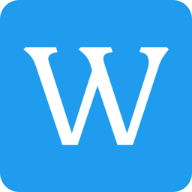
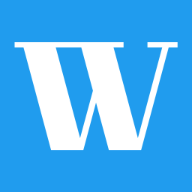
change cover image

diff --git a/posts/about_openwrt/index.html b/posts/about_openwrt/index.html
@@ -58,9 +58,9 @@ Aplayer in iPad
 <link rel="canonical" href="https://wushuo.me/posts/about_openwrt/">
 <link crossorigin="anonymous" href="/assets/css/stylesheet.fc220c15db4aef0318bbf30adc45d33d4d7c88deff3238b23eb255afdc472ca6.css" integrity="sha256-/CIMFdtK7wMYu/MK3EXTPU18iN7/MjiyPrJVr9xHLKY=" rel="preload stylesheet" as="style">
 <link rel="icon" href="https://wushuo.me/assets/favicon.ico">
-<link rel="icon" type="image/png" sizes="16x16" href="https://wushuo.me/favicon-16x16.png">
-<link rel="icon" type="image/png" sizes="32x32" href="https://wushuo.me/favicon-32x32.png">
-<link rel="apple-touch-icon" href="https://wushuo.me/apple-touch-icon.png">
+<link rel="icon" type="image/png" sizes="16x16" href="https://wushuo.me/assets/favicon-16x16.png">
+<link rel="icon" type="image/png" sizes="32x32" href="https://wushuo.me/assets/favicon-32x32.png">
+<link rel="apple-touch-icon" href="https://wushuo.me/assets/apple-touch-icon.png">
 <link rel="mask-icon" href="https://wushuo.me/safari-pinned-tab.svg">
 <meta name="theme-color" content="#2e2e33">
 <meta name="msapplication-TileColor" content="#2e2e33">
@@ -150,11 +150,11 @@ Aplayer in iPad
 
 " />
 <meta property="og:type" content="article" />
-<meta property="og:url" content="https://wushuo.me/posts/about_openwrt/" /><meta property="og:image" content="https://wushuo.me/img/cover-image-0.jpg"/><meta property="article:section" content="posts" />
+<meta property="og:url" content="https://wushuo.me/posts/about_openwrt/" /><meta property="og:image" content="https://wushuo.me/img/profile-image.jpg"/><meta property="article:section" content="posts" />
 <meta property="article:published_time" content="2021-01-11T19:44:48+08:00" />
 <meta property="article:modified_time" content="2021-01-11T19:44:48+08:00" />
 <meta name="twitter:card" content="summary_large_image"/>
-<meta name="twitter:image" content="https://wushuo.me/img/cover-image-0.jpg"/>
+<meta name="twitter:image" content="https://wushuo.me/img/profile-image.jpg"/>
 
 <meta name="twitter:title" content="我的家庭组网：软路由从联网到智能家居"/>
 <meta name="twitter:description" content="OpenWrt 是适合于嵌入式设备的一个 Linux 发行版。
@@ -239,7 +239,7 @@ Aplayer in iPad
   "articleBody": "OpenWrt 是适合于嵌入式设备的一个 Linux 发行版。 对于开发者来说，OpenWrt是一个框架，开发者不必麻烦地构建整个固件就能得到想要的应用程序；对于用户来说，这意味着完全定制的能力，与以往不同的方式使用设备，OPKG 包含超过3500个软件。 默认使用 LuCI 作为 website 交互界面。\n这是一篇 Step by Step 的关于 x86 架构组建 Openwrt 家庭软路由的教程。你将可以了解到 Openwrt 在现代家庭网络中大放异彩：私人云盘，流媒体托管，负载均衡，流量管控，隔空播放，甚至更多值得想象的功能；并且你只需基本的电脑知识和简单的硬件就能在你的家中实现。\n注意：\n你的家庭网络必须接入互联网运营商且能正常上网 你需要一台闲置的台式电脑（当然您也可以选择以极低的价格购买 x86 软路由，约 200 元人民币） 你需要一台无线硬路由（即普通的 WI-FI 路由器）/ AP 确保光猫工作在桥接模式下（日常生活中联网无需拨号上网即桥接模式） 目录 有限的功能展示 准备工作 网络拓扑 硬件条件 系统安装 图像界面设置 更多服务 隔空播放 广告过滤 DLNA流媒体服务 连接互联网 功能展示 Airplay2 (隔空播放) 后台监控 流媒体播放 (DLNA) 和 私人网盘 Aplayer in iPad 更快的速度和更稳定的视频播放 准备工作 从了解网络拓扑开始 软路由的工作模式主要分为：主路由和旁路由，本文主要介绍软路由作为主路由的工作模式。 接线方式:\n光纤 \u003e 光猫 (调制解调器) \u003e 软路由WAN口 软路由LAN口 \u003e 家用WI-FI路由 (以下两种任选一种) 软路由LAN口 \u003e 家用WI-FI路由WAN口 (此时家用Wi-Fi路由启用 DHCP) 软路由LAN口 \u003e 家用Wi-Fi路由LAN口 (此时家用Wi-Fi路由不启用 DHCP，同时需要将家用Wi-Fi路由的网段设置在软路由LAN口网段下) 软路由的硬件准备 确保充当软路由的 x86 电脑可以正常工作 x86 电脑的以太网接口有两个以上 (LAN口和WAN口)，台式电脑可以通过购买 PCI 或者 PCI-E 网卡拓展为双网口 可以正常使用的无线硬路由 (即家用Wi-Fi路由器) 系统安装 准备安装 PE启动盘 (请使用U盘制作PE启动盘，注意：制作PE启动盘会格式化U盘) 用以启动 PE 安装 Openwrt Openwrt 第三方镜像 (推荐功能齐全的第三方编译镜像) 写盘工具 (推荐DiskImage) 开始安装 注意：请先确保按照网络拓扑中的接线连接设备 如不确定哪一个是WAN口，可以进行至图像界面时，成功进入网页管理页面即为成功，否则将 WAN 口网线和 LAN 口网线调转\n在 PE 模式下使用写盘工具向 x86 PC 硬盘写入 Openwrt 镜像\n设置密码 重启电脑, 进入命令行，输入passwd设定 Openwrt 的密码 (同时也是 LuCI 可视化界面的密码) 注意：设定密码形如123456时 Linux 是不会显示 ******，输入完成直接回车即可；再次确认输入再回车即可。\n设定 LAN 口的网段:vim /etc/config/network，找到config interface 'lan'，并将其中的option ipaddr '192.68.1.1'改为option ipaddr '192.68.5.1'(或者将其改为你喜欢的网段) 注意：文本编辑器Vim按i (insert) 向光标前方插入并进入编辑模式，对IP进行编辑后，按Esc推出编辑模式，最后按:wq (write and quit) 保存。详细信息请自行 Googlehow to use vim\n图形界面 确保你的设备接入到了家用Wi-Fi路由器的网络中，在浏览器中输入192.168.5.1，输入先前设置的密码 开始联网 在 网络 - 接口 - WAN - 将传输协议改为 PPPoE 用户名和密码为宽带拨号用户名和密码 保存后测试即可上网 更多服务 如果第三方编译的镜像提供了更多的服务\n隔空播放 可以打开 Airplay2 功能，并将音响通过USB声卡连接到 Openwrt，可以实现类似 Apple HomePad 的音乐隔空播放功能\n广告过滤 打开广告过滤，即可从路由器层面过滤掉广告\nDLNA流媒体服务 挂载磁盘分区后，确保有足够的空间即可打开DLNA服务\n连接互联网 有了Openwrt，连接互联网再也不是问题，更快的访问速度和更高的性能，妈妈再也不用担心看4K卡住了\n",
   "wordCount" : "186",
   "inLanguage": "en",
-  "image": "https://wushuo.me/img/cover-image-0.jpg","datePublished": "2021-01-11T19:44:48+08:00",
+  "image": "https://wushuo.me/img/profile-image.jpg","datePublished": "2021-01-11T19:44:48+08:00",
   "dateModified": "2021-01-11T19:44:48+08:00",
   "author":{
     "@type": "Person",

diff --git a/posts/vector-analysis-beginning/index.html b/posts/vector-analysis-beginning/index.html
@@ -33,9 +33,9 @@ $$ grad ; u(x, y, z) = \nabla u $$">
 <link rel="canonical" href="https://wushuo.me/posts/vector-analysis-beginning/">
 <link crossorigin="anonymous" href="/assets/css/stylesheet.fc220c15db4aef0318bbf30adc45d33d4d7c88deff3238b23eb255afdc472ca6.css" integrity="sha256-/CIMFdtK7wMYu/MK3EXTPU18iN7/MjiyPrJVr9xHLKY=" rel="preload stylesheet" as="style">
 <link rel="icon" href="https://wushuo.me/assets/favicon.ico">
-<link rel="icon" type="image/png" sizes="16x16" href="https://wushuo.me/favicon-16x16.png">
-<link rel="icon" type="image/png" sizes="32x32" href="https://wushuo.me/favicon-32x32.png">
-<link rel="apple-touch-icon" href="https://wushuo.me/apple-touch-icon.png">
+<link rel="icon" type="image/png" sizes="16x16" href="https://wushuo.me/assets/favicon-16x16.png">
+<link rel="icon" type="image/png" sizes="32x32" href="https://wushuo.me/assets/favicon-32x32.png">
+<link rel="apple-touch-icon" href="https://wushuo.me/assets/apple-touch-icon.png">
 <link rel="mask-icon" href="https://wushuo.me/safari-pinned-tab.svg">
 <meta name="theme-color" content="#2e2e33">
 <meta name="msapplication-TileColor" content="#2e2e33">
@@ -105,11 +105,11 @@ $$\nabla = \vec{e_x}\frac{\partial}{\partial x} &#43; \vec{e_y}\frac{\partial}{\
 则梯度可以表示为
 $$ grad ; u(x, y, z) = \nabla u $$" />
 <meta property="og:type" content="article" />
-<meta property="og:url" content="https://wushuo.me/posts/vector-analysis-beginning/" /><meta property="og:image" content="https://wushuo.me/img/cover-image-0.jpg"/><meta property="article:section" content="posts" />
+<meta property="og:url" content="https://wushuo.me/posts/vector-analysis-beginning/" /><meta property="og:image" content="https://wushuo.me/img/profile-image.jpg"/><meta property="article:section" content="posts" />
 <meta property="article:published_time" content="2021-05-26T22:24:30+08:00" />
 <meta property="article:modified_time" content="2021-05-26T22:24:30+08:00" />
 <meta name="twitter:card" content="summary_large_image"/>
-<meta name="twitter:image" content="https://wushuo.me/img/cover-image-0.jpg"/>
+<meta name="twitter:image" content="https://wushuo.me/img/profile-image.jpg"/>
 
 <meta name="twitter:title" content="矢量分析初步"/>
 <meta name="twitter:description" content="矢量分析初步主要介绍 &ldquo;梯度, 散度, 旋度&rdquo; 的概念及其之间的关系；梯度、散度和旋度是矢量分析中的基本运算符，主要用于描述标量场和矢量场中的变化情况，广泛应用于物理学和工程学中的多个领域
@@ -169,7 +169,7 @@ $$ grad ; u(x, y, z) = \nabla u $$"/>
   "articleBody": "矢量分析初步主要介绍 “梯度, 散度, 旋度” 的概念及其之间的关系；梯度、散度和旋度是矢量分析中的基本运算符，主要用于描述标量场和矢量场中的变化情况，广泛应用于物理学和工程学中的多个领域\n标量场和矢量场 标量场 标量场是物理量为标量所确定的场, 如温度场, 密度场等, 表示为 $$ u = u(x, y, z) $$\n矢量场 矢量场是物理量为矢量所确定的场, 如力场, 电场等, 表示为 $$\\vec{F} = \\vec{F}(x, y, z) $$\n方向导数 在函数定义域的内点，对某一方向求导得到的导数。 一般为二元函数和三元函数的方向导数，方向导数可分为沿直线方向和沿曲线方向的方向导数, 表示为 $$ \\nabla_{v}u(l) = \\frac{\\partial u}{\\partial l} $$\n梯度 梯度的方向可以理解为沿变化率上升最快的方向, 一元函数的梯度是标量函数, 多元函数的梯度是向量值函数\n三维空间的梯度可以想象为小球在地形上下落的趋势, 小球在无干扰情况下总沿一个方向下落, 这个方向的反方向 ( 即上升的方向 ) 就是梯度的方向 四维空间的梯度可以想象为某个气体分子在冷热不均的空间中总沿最冷方向运动, 这个最冷方向的反方向就是梯度的方向 梯度表示为 $$ grad ; u(x, y, z) = \\vec{e_x}\\frac{\\partial u}{\\partial x} + \\vec{e_y}\\frac{\\partial u}{\\partial y} + \\vec{e_z}\\frac{\\partial u}{\\partial z}$$ 由哈密顿算符 $$\\nabla = \\vec{e_x}\\frac{\\partial}{\\partial x} + \\vec{e_y}\\frac{\\partial}{\\partial y} + \\vec{e_z}\\frac{\\partial}{\\partial z}$$ 则梯度可以表示为 $$ grad ; u(x, y, z) = \\nabla u $$\n另外, 标量场的梯度是矢量场\n通量 通量表示为 $$ \\psi = \\int_s \\vec{F} \\cdot {\\rm d}\\vec{S} = \\int_s \\vec{F} \\cdot \\vec{e_n} {\\rm d}S $$ 其中 $\\vec{e_n}$ 的方向与切平面垂直, 为平面 $S$ 的法向量, 其值为 $$ \\vec{e_n} = \\nabla S $$\n散度 散度可以抽象的理解为旋涡向中心收拢 (发散) 的程度 散度表示为 $$ {\\rm div} \\vec{F} = \\frac{\\partial \\vec{F}}{\\partial x} + \\frac{\\partial \\vec{F}}{\\partial y} + \\frac{\\partial \\vec{F}}{\\partial z}$$ 由哈密顿算符 $$\\nabla = \\vec{e_x}\\frac{\\partial}{\\partial x} + \\vec{e_y}\\frac{\\partial}{\\partial y} + \\vec{e_z}\\frac{\\partial}{\\partial z}$$ 则散度可以表示为 $$ {\\rm div} \\vec{F} = \\nabla \\cdot \\vec{F} $$\n另外, 矢量场的散度是标量场\n环流 环流表示为 $$ \\delta = \\oint_c \\vec{F} {\\rm d} \\vec{l} $$ 给出环流面密度 $${\\rm rot_n} \\vec{F} = \\lim_{\\Delta S \\to 0} \\frac{\\oint_c \\vec{F} \\cdot {\\rm d} \\vec{l}}{\\Delta S}$$\n旋度 旋度可以理解为三维向量场对某一点附近的微元造成的旋转程度 旋度表示为 $${\\rm rot} \\vec{F} = \\vec{n} \\lim_{\\Delta S \\to 0} \\frac{\\oint_c \\vec{F} \\cdot {\\rm d} \\vec{l}}{\\Delta S} \\mid _{max}$$ 由哈密顿算符 $$\\nabla = \\vec{e_x}\\frac{\\partial}{\\partial x} + \\vec{e_y}\\frac{\\partial}{\\partial y} + \\vec{e_z}\\frac{\\partial}{\\partial z}$$ 则旋度表示为 $${\\rm rot} \\vec{F} = \\nabla \\times \\vec{F} $$\n",
   "wordCount" : "239",
   "inLanguage": "en",
-  "image": "https://wushuo.me/img/cover-image-0.jpg","datePublished": "2021-05-26T22:24:30+08:00",
+  "image": "https://wushuo.me/img/profile-image.jpg","datePublished": "2021-05-26T22:24:30+08:00",
   "dateModified": "2021-05-26T22:24:30+08:00",
   "author":{
     "@type": "Person",

diff --git a/posts/seikatsu/index.html b/posts/seikatsu/index.html
@@ -32,9 +32,9 @@ QQ 音乐 专辑链接
 <link rel="canonical" href="https://wushuo.me/posts/seikatsu/">
 <link crossorigin="anonymous" href="/assets/css/stylesheet.fc220c15db4aef0318bbf30adc45d33d4d7c88deff3238b23eb255afdc472ca6.css" integrity="sha256-/CIMFdtK7wMYu/MK3EXTPU18iN7/MjiyPrJVr9xHLKY=" rel="preload stylesheet" as="style">
 <link rel="icon" href="https://wushuo.me/assets/favicon.ico">
-<link rel="icon" type="image/png" sizes="16x16" href="https://wushuo.me/favicon-16x16.png">
-<link rel="icon" type="image/png" sizes="32x32" href="https://wushuo.me/favicon-32x32.png">
-<link rel="apple-touch-icon" href="https://wushuo.me/apple-touch-icon.png">
+<link rel="icon" type="image/png" sizes="16x16" href="https://wushuo.me/assets/favicon-16x16.png">
+<link rel="icon" type="image/png" sizes="32x32" href="https://wushuo.me/assets/favicon-32x32.png">
+<link rel="apple-touch-icon" href="https://wushuo.me/assets/apple-touch-icon.png">
 <link rel="mask-icon" href="https://wushuo.me/safari-pinned-tab.svg">
 <meta name="theme-color" content="#2e2e33">
 <meta name="msapplication-TileColor" content="#2e2e33">
@@ -98,11 +98,11 @@ QQ 音乐 专辑链接
 网易云音乐 专辑链接
 " />
 <meta property="og:type" content="article" />
-<meta property="og:url" content="https://wushuo.me/posts/seikatsu/" /><meta property="og:image" content="https://wushuo.me/img/cover-image-0.jpg"/><meta property="article:section" content="posts" />
+<meta property="og:url" content="https://wushuo.me/posts/seikatsu/" /><meta property="og:image" content="https://wushuo.me/img/profile-image.jpg"/><meta property="article:section" content="posts" />
 <meta property="article:published_time" content="2024-05-21T14:12:22+08:00" />
 <meta property="article:modified_time" content="2024-05-21T14:12:22+08:00" />
 <meta name="twitter:card" content="summary_large_image"/>
-<meta name="twitter:image" content="https://wushuo.me/img/cover-image-0.jpg"/>
+<meta name="twitter:image" content="https://wushuo.me/img/profile-image.jpg"/>
 
 <meta name="twitter:title" content="生活"/>
 <meta name="twitter:description" content="文章标题的《生活》来自 ハローモンテスキュ 的专辑名称，日语发音为 せいかつ / seikatsu；文章末尾附有这支专辑的流媒体平台的超链接
@@ -161,7 +161,7 @@ QQ 音乐 专辑链接
   "articleBody": "文章标题的《生活》来自 ハローモンテスキュ 的专辑名称，日语发音为 せいかつ / seikatsu；文章末尾附有这支专辑的流媒体平台的超链接\n最近在写研究计划书，英文缩写为 RP，然而我一直不清楚到底是 Research Proposal （研究提案）还是 Research Plan （研究计划）；我当然更倾向于前者，一方面 Proposal 这个词听起来更高级，另一方面异想天开的两页 PDF 文档根本称不上计划。RP 一词放到国内应当翻译为开题报告比较贴切，只是 RP 是作为申请材料提交的一部分，和实际的研究内容不是强相关的\n本科的时候不喜欢 ML 相关的东西，也没有过多接触火热的 AI；如今到了研究计划书里，却要加入一大堆各种神经网络模型论文的引用。只能说，这是为了生活。不过好在 RP 的方向可以自己选择，撇开神经网络，还有一些自己感兴趣的朴素的媒体处理可以写，也算没有白学信号处理这些课\n比起晦涩难懂的受限玻尔兹曼机，上班儿生活显然更加无聊；在没啥研发内容的研发岗上班，短短几天我就理解到上班的意义就是挣钱，学习行业内的业务能力只不过是初入职场的安慰剂，升职加薪更是领导的大饼。在公司里当个小研发员，换来的是：在人挤人的调休节假日晒出来的精美朋友圈\n上班的一小段日子里，每天在工位上摸鱼，心情好去帮高级工程师调试板子，每天 3 小时的通勤。即使我从来不在意 Leader 和办公室其他人的目光 5:30 到点就走人，回到家依然累得倒头就睡。我发现在这种上班氛围里，我失去了对我喜爱的东西的热情，我没有时间骑车，也没有时间看硬件，我的英语和日语完全没办法继续练习。\n之后我辞了职，拿了 N2 的证书，穷玩了长三角的城市，备考托福托业，学数学\n当我听到在外企上班的朋友说，她有时候需要 24 小时 standby，我一点也不羡慕她的双休和薪资了\n在家躺平被老中社会视为一种罪恶，特别是之前麻木的工作赚的钱也不少，主要原因是除了交通费以外没有其他开支。但沉湎在麻木的工作里让我感到害怕，我很害怕让我失去重新开始追逐目标的勇气和继续学习的能力\n因此尽管有家里人的压力（集中于学习方面而不是宅家躺平方面）和浪费的快一年时间，我显然想要有更多机会，即使这些机会最后没有转化为结果，我也并不后悔。我备考托福的时间是备考托业考试的几十倍，托福并没有考到想要的分数，之后草草报名了托业，卷子甚至有 1/8 来不及写，依然拿了能用的分数。不可否认托业这种野鸡考试对比托福有些高攀了，但是回想复习托福的那段经历，对托业一定是有帮助的。\n英语考试的努力都不会白白浪费，更何况是在家躺平的挣扎的生活\n附言： 这篇文章动笔之前想的很多，动笔之后写得断断续续；可能我写不出任何有深度的东西了，写得完全是流水账。如果您可以看完，我会十分感谢（笑）\n生活　ー　ハローモンテスキュー\nApple Music 专辑链接 Spotify 专辑链接 Youtube 专辑合集 QQ 音乐 专辑链接 网易云音乐 专辑链接 ",
   "wordCount" : "64",
   "inLanguage": "en",
-  "image": "https://wushuo.me/img/cover-image-0.jpg","datePublished": "2024-05-21T14:12:22+08:00",
+  "image": "https://wushuo.me/img/profile-image.jpg","datePublished": "2024-05-21T14:12:22+08:00",
   "dateModified": "2024-05-21T14:12:22+08:00",
   "author":{
     "@type": "Person",

diff --git a/posts/genealogy/index.html b/posts/genealogy/index.html
@@ -37,9 +37,9 @@
 <link rel="canonical" href="https://wushuo.me/posts/genealogy/">
 <link crossorigin="anonymous" href="/assets/css/stylesheet.fc220c15db4aef0318bbf30adc45d33d4d7c88deff3238b23eb255afdc472ca6.css" integrity="sha256-/CIMFdtK7wMYu/MK3EXTPU18iN7/MjiyPrJVr9xHLKY=" rel="preload stylesheet" as="style">
 <link rel="icon" href="https://wushuo.me/assets/favicon.ico">
-<link rel="icon" type="image/png" sizes="16x16" href="https://wushuo.me/favicon-16x16.png">
-<link rel="icon" type="image/png" sizes="32x32" href="https://wushuo.me/favicon-32x32.png">
-<link rel="apple-touch-icon" href="https://wushuo.me/apple-touch-icon.png">
+<link rel="icon" type="image/png" sizes="16x16" href="https://wushuo.me/assets/favicon-16x16.png">
+<link rel="icon" type="image/png" sizes="32x32" href="https://wushuo.me/assets/favicon-32x32.png">
+<link rel="apple-touch-icon" href="https://wushuo.me/assets/apple-touch-icon.png">
 <link rel="mask-icon" href="https://wushuo.me/safari-pinned-tab.svg">
 <meta name="theme-color" content="#2e2e33">
 <meta name="msapplication-TileColor" content="#2e2e33">
@@ -108,11 +108,11 @@
 吴语方言：这里的吴语方言特指浙江省湖州市（太湖沿岸片区）的吴语方言
 " />
 <meta property="og:type" content="article" />
-<meta property="og:url" content="https://wushuo.me/posts/genealogy/" /><meta property="og:image" content="https://wushuo.me/img/cover-image-0.jpg"/><meta property="article:section" content="posts" />
+<meta property="og:url" content="https://wushuo.me/posts/genealogy/" /><meta property="og:image" content="https://wushuo.me/img/profile-image.jpg"/><meta property="article:section" content="posts" />
 <meta property="article:published_time" content="2023-02-01T19:18:50+08:00" />
 <meta property="article:modified_time" content="2023-02-01T19:18:50+08:00" />
 <meta name="twitter:card" content="summary_large_image"/>
-<meta name="twitter:image" content="https://wushuo.me/img/cover-image-0.jpg"/>
+<meta name="twitter:image" content="https://wushuo.me/img/profile-image.jpg"/>
 
 <meta name="twitter:title" content="新年旧札"/>
 <meta name="twitter:description" content="过年回我爷爷奶奶家所闻
@@ -176,7 +176,7 @@
   "articleBody": "过年回我爷爷奶奶家所闻\n我奶奶告诉我她的一只眼睛是被她妈妈不小心打瞎的，嫁不出去（寻不到好人家）于是嫁给我了我爷爷\n我奶奶的妈妈（太奶奶）是红军的弃婴，出生在安徽郎溪。后来亲生父亲来接她回北京，她没认她父亲自然也没有去北京，后来嫁给了安徽郎溪的一个当地大户人家（也就是我奶奶的生理学父亲¹）作小妾，生下了我奶奶\n后来太奶奶被赶出家门（原因不知），带着我奶奶从安徽郎溪一路要饭到浙江长兴泗安，在这里带着我奶奶改嫁，于是我奶奶就有了新的父亲 和我奶奶比起来，我爷爷则更像是土著浙江人，因为他家族的移民要追溯到清末年间的河南信阳下江南移民 我 爷爷的爷爷（高祖父）被放在箩筐里，从河南光山挑在箩筐里移民到浙江长兴，从此在这里定居。因此，我爷爷在浙江长兴出生，讲的却不是吴语片区的方言（长兴话），而是河南官话（准确来说是河南光山方言）\n我爷爷奶奶的村里，几乎讲的都是“河南话”，这是由于整个村里都是从河南移民而来的人 近年来，住在主城区周边的村落的河南移民后代也都进入主城区发展，主城区内的吴语方言²和河南话也由原来的吴语方言主导转变为两种方言通用\n依我浅薄的买菜经验，绝大多数卖菜的老板，超市的员工，都会听说两种方言\n这里有一篇来自河南罗山县人民政府政协撰写的《一担箩筐下江南的历史正剧——信阳地区清朝末年移民苏浙皖环太湖历史考察记略》 一言以蔽之，清末太平天国运动导致江浙皖环太湖地区人口锐减（有关这方面的研究甚多），来自河南的人口迁移到环太湖地区，我爷爷就是其中的后代 如果说移民有什么影响，那么大道理想当然一大堆。但清末那次移民，还是给了我的小学生活带来了很多不愉快\n我的小学就读在主城区的小区内，又是以 No. 数字命名的公立小学。老师，同学们在非授课时间说的都是吴语方言；老师在上课骂人时也用的是我听不懂的吴语方言，这也导致我对吴语方言的学习非常抵触，到现在为止能听懂大部分当地的吴语方言，杭州话，上海话等等，会说的也只有那几句骂人的话。我真心认为我就读的那所小学的教师素质无法匹配上它 “XX 县第 X 小学” 的名字，所有人对校园霸凌熟视无睹，老师也可以随便打小学生\n公立初中（依旧是城区），明显感觉到教师素质提高一节，老师几乎很少骂人，没有动手打人的习惯，身边也几乎很少有说吴语方言的同学了\n上了高中，从乡镇上考来的同学多了，移民后代讲河南方言的同学多了起来，班上甚至有一半以上的同学都会说河南方言（我觉得也可能是和时间推移人口流动有关）\n有次在北京打车，碰到个河南的大哥他说的话我听得懂，我就跟他说我家乡河南方言。他问我哪里的，我说浙江，慢慢跟他解释移民的事\n注释：\n生理学父亲：使用这个词语的立场没有任何性别倾向 吴语方言：这里的吴语方言特指浙江省湖州市（太湖沿岸片区）的吴语方言 ",
   "wordCount" : "27",
   "inLanguage": "en",
-  "image": "https://wushuo.me/img/cover-image-0.jpg","datePublished": "2023-02-01T19:18:50+08:00",
+  "image": "https://wushuo.me/img/profile-image.jpg","datePublished": "2023-02-01T19:18:50+08:00",
   "dateModified": "2023-02-01T19:18:50+08:00",
   "author":{
     "@type": "Person",

diff --git a/posts/lockdown-and-future/index.html b/posts/lockdown-and-future/index.html
@@ -33,9 +33,9 @@
 <link rel="canonical" href="https://wushuo.me/posts/lockdown-and-future/">
 <link crossorigin="anonymous" href="/assets/css/stylesheet.fc220c15db4aef0318bbf30adc45d33d4d7c88deff3238b23eb255afdc472ca6.css" integrity="sha256-/CIMFdtK7wMYu/MK3EXTPU18iN7/MjiyPrJVr9xHLKY=" rel="preload stylesheet" as="style">
 <link rel="icon" href="https://wushuo.me/assets/favicon.ico">
-<link rel="icon" type="image/png" sizes="16x16" href="https://wushuo.me/favicon-16x16.png">
-<link rel="icon" type="image/png" sizes="32x32" href="https://wushuo.me/favicon-32x32.png">
-<link rel="apple-touch-icon" href="https://wushuo.me/apple-touch-icon.png">
+<link rel="icon" type="image/png" sizes="16x16" href="https://wushuo.me/assets/favicon-16x16.png">
+<link rel="icon" type="image/png" sizes="32x32" href="https://wushuo.me/assets/favicon-32x32.png">
+<link rel="apple-touch-icon" href="https://wushuo.me/assets/apple-touch-icon.png">
 <link rel="mask-icon" href="https://wushuo.me/safari-pinned-tab.svg">
 <meta name="theme-color" content="#2e2e33">
 <meta name="msapplication-TileColor" content="#2e2e33">
@@ -100,11 +100,11 @@
 于中华人民共和国浙江省境内
 二零二二年拾月贰拾陆日 午夜" />
 <meta property="og:type" content="article" />
-<meta property="og:url" content="https://wushuo.me/posts/lockdown-and-future/" /><meta property="og:image" content="https://wushuo.me/img/cover-image-0.jpg"/><meta property="article:section" content="posts" />
+<meta property="og:url" content="https://wushuo.me/posts/lockdown-and-future/" /><meta property="og:image" content="https://wushuo.me/img/profile-image.jpg"/><meta property="article:section" content="posts" />
 <meta property="article:published_time" content="2022-10-26T00:17:05+08:00" />
 <meta property="article:modified_time" content="2022-10-26T00:17:05+08:00" />
 <meta name="twitter:card" content="summary_large_image"/>
-<meta name="twitter:image" content="https://wushuo.me/img/cover-image-0.jpg"/>
+<meta name="twitter:image" content="https://wushuo.me/img/profile-image.jpg"/>
 
 <meta name="twitter:title" content="静默 / 进路"/>
 <meta name="twitter:description" content="从 2022 年寒假到 2022 年 11 月，我一直在浙江；这期间发生了许多改变我原先想法的事：上海封城，亲人离世，浅入不同的文化，结识不同的朋友。时间流逝地飞快，把我抛在原地；庆幸的是在这段摆脱了喧哗的静默里，我可以陪家人一起，自由地吸着小城里弥漫着夏天味道的空气
@@ -164,7 +164,7 @@
   "articleBody": "从 2022 年寒假到 2022 年 11 月，我一直在浙江；这期间发生了许多改变我原先想法的事：上海封城，亲人离世，浅入不同的文化，结识不同的朋友。时间流逝地飞快，把我抛在原地；庆幸的是在这段摆脱了喧哗的静默里，我可以陪家人一起，自由地吸着小城里弥漫着夏天味道的空气\n大约是 2022 年 2 月底，上海封城 亲戚的小区被封了，五十多岁的阿姨在微信群里哭起来。我们这些外地人和江北人只能望着上海每天增加的数字，看看《上海发布》微信公众号聊以慰藉 渐渐有人开始逃离上海，徒步去火车站和机场；更多人被转移去了方舱，睡在地板上······ 这场运动一直持续到 8 月初，南浦大桥终于又有了车流，可上海再也不是精神上海人心中的上海了\n再后来外婆离世，一行人坐救护车从浙江到了安徽 她去世前几天还多次说谢谢我照顾她，胰岛素注射笔我已经可以很熟练地使用了 只是我觉得中式葬礼难免有些太过复杂了，锣鼓喧天又休息不好，还要跋山涉水 外婆去世后，关于遗产问题又是一些摩擦；却没人关心外婆家里的相册，最后记录着外公外婆一家的相册也不知道被丢到哪个角落\n小城的生活成本不算高，但也不低 一份老娘舅的午饭如果只单点“鱼香肉丝”和“白米饭”，可以被压缩到 10 元，还有免费的一杯大麦茶赠送；如果要点套餐，就要 30 元，因为加上了带银鱼的水蒸蛋，两块蒸饺和一碟小菜；有意思的是，老娘舅所有的套餐价格和单点没有任何区别，也即是套餐无优惠 除了吃，我在小城里几乎没有别的消费，我去的场所几乎只需要支付免费的“浙江健康码”和“国务院行程码”，健康码里的核酸检测必须是三天以内。这当然不是什么大问题，毕竟就和商场门口的保安所说的，核酸检测又不需要钱，而且到处都有\n和我妈的争吵不休但没有什么大矛盾 我的作息因为玩 VRchat 的原因，时区向西移动了一些。但最近已经不太沉迷 VRchat 了，作息也在慢慢调整。我考上大学的时候，我妈可以在给定一所大学名称的情况下，断言这所大学是 985 还是 211 ；现在我妈自发地开始了解世界其他的大学，周边发达国家 / 地区的大学，她能迅速判断 国立 / 公立 / 私立，然后教育我不能躺平 有天晚上我妈指着手机上的抖音中介说：这个咨询的人懂的还没我多 至于我爸，他在二十大前买入了股票，可想又是亏损的\n花了好多时间的 VRchat，认识了不同的朋友们，有些不再联系，有些加了微信，有些对我信任，有些杳无音讯，有些伸出援手\n自己要选怎么样的路只有自己知道， 反正我是没搞清楚\n于中华人民共和国浙江省境内 二零二二年拾月贰拾陆日 午夜\n",
   "wordCount" : "54",
   "inLanguage": "en",
-  "image": "https://wushuo.me/img/cover-image-0.jpg","datePublished": "2022-10-26T00:17:05+08:00",
+  "image": "https://wushuo.me/img/profile-image.jpg","datePublished": "2022-10-26T00:17:05+08:00",
   "dateModified": "2022-10-26T00:17:05+08:00",
   "author":{
     "@type": "Person",

diff --git a/posts/hackintosh/index.html b/posts/hackintosh/index.html
@@ -82,9 +82,9 @@ Attention: if you can have a mac in any way you should install MacOS on your PC 
 <link rel="canonical" href="https://wushuo.me/posts/hackintosh/">
 <link crossorigin="anonymous" href="/assets/css/stylesheet.fc220c15db4aef0318bbf30adc45d33d4d7c88deff3238b23eb255afdc472ca6.css" integrity="sha256-/CIMFdtK7wMYu/MK3EXTPU18iN7/MjiyPrJVr9xHLKY=" rel="preload stylesheet" as="style">
 <link rel="icon" href="https://wushuo.me/assets/favicon.ico">
-<link rel="icon" type="image/png" sizes="16x16" href="https://wushuo.me/favicon-16x16.png">
-<link rel="icon" type="image/png" sizes="32x32" href="https://wushuo.me/favicon-32x32.png">
-<link rel="apple-touch-icon" href="https://wushuo.me/apple-touch-icon.png">
+<link rel="icon" type="image/png" sizes="16x16" href="https://wushuo.me/assets/favicon-16x16.png">
+<link rel="icon" type="image/png" sizes="32x32" href="https://wushuo.me/assets/favicon-32x32.png">
+<link rel="apple-touch-icon" href="https://wushuo.me/assets/apple-touch-icon.png">
 <link rel="mask-icon" href="https://wushuo.me/safari-pinned-tab.svg">
 <meta name="theme-color" content="#2e2e33">
 <meta name="msapplication-TileColor" content="#2e2e33">
@@ -198,11 +198,11 @@ Can not be used as video-editing or render
 
 Attention: if you can have a mac in any way you should install MacOS on your PC through Unibeast" />
 <meta property="og:type" content="article" />
-<meta property="og:url" content="https://wushuo.me/posts/hackintosh/" /><meta property="og:image" content="https://wushuo.me/img/cover-image-0.jpg"/><meta property="article:section" content="posts" />
+<meta property="og:url" content="https://wushuo.me/posts/hackintosh/" /><meta property="og:image" content="https://wushuo.me/img/profile-image.jpg"/><meta property="article:section" content="posts" />
 <meta property="article:published_time" content="2020-08-23T19:03:45+08:00" />
 <meta property="article:modified_time" content="2020-08-23T19:03:45+08:00" />
 <meta name="twitter:card" content="summary_large_image"/>
-<meta name="twitter:image" content="https://wushuo.me/img/cover-image-0.jpg"/>
+<meta name="twitter:image" content="https://wushuo.me/img/profile-image.jpg"/>
 
 <meta name="twitter:title" content="Hackintosh on intel G41 with 775/771 CPU"/>
 <meta name="twitter:description" content="A Hackintosh is a computer that runs an Apple Macintosh operating system on computer hardware not authorized for the purpose by Apple. This passage is to introduce using intel G41 series motherboard hackintosh on a low budget.
@@ -311,7 +311,7 @@ Attention: if you can have a mac in any way you should install MacOS on your PC 
   "articleBody": "A Hackintosh is a computer that runs an Apple Macintosh operating system on computer hardware not authorized for the purpose by Apple. This passage is to introduce using intel G41 series motherboard hackintosh on a low budget.\n# Showing # System Configuration Parts Type Model in Clover Config iMac14, 2 CPU Intel Xeon L5420 2.5Ghz with 4 Cores 4 Threads Motherboard AUSU P5G41T-M LX V2 Graphics Pegatron GeForce 310 512 MB HDMI/DVI Disk Teclast SSD 128GB SATA Memory 1333MHz DDR3 2x2G Display Philips 32PFL3040 1360x768 HDMI Audio SANSUI with Green Rear Line-out # Performance Geekbench 5: Single-Core Score 380 / Multi-Core Score 1283 Browser website and Code fluently with 2 x 6MB L2 Cache Can not be used as video-editing or render # Build wakeup success resolution success HDMI/DVI both can be line-out audio line-out success in Green Rear and Headphones ethernet conect stably iCloud and Appstore replaced SMBIOS Power-on without USB Sticker wireless and bluetooh USB 3.0 port which can be installed through PCIE x1 microphone Airdrop and Handoff iMessage, Facetime and iTunes can not login # About Boot Attention: if you can have a mac in any way you should install MacOS on your PC through Unibeast\nThe way I’ll introduce worked successfully in any old MBR PC\nboot workflow MBR simulate UEFI ( EFI in Disk ) \u003e enter UEFI Boot \u003e enter Clover Boot ( ESP in MacOS ) \u003e MacOS\nMBR simulate UEFI achievement Part 500 MB FAT32 disk0 as EFI Partition from boot disk Active the EFI Partition to allow MBR Boot Use BOOTICE to simulate UEFI MBR Repair disk0:usr/standalone/i386/boot0af to your boot disk PBR Repair disk0:usr/standalone/i386/boot1f32alt to EFI Partition Until now your MBR PC is able to simulate UEFI # Install macOS Known The macOS version is decided by your PC parts, mostly decided by Graphics U Disk is more realiable than writing to disk directly Install important points Xeon CPU ( Particularly 771 socket trans to 775 socket ) need to add boot args: npci=0x3000 Nvdia GT 210/GT 310 ( 512 MB / 1024 MB ) is able to be drived by macOS natively and it’s the cheapest Graphics If macOS Catalina are wished to be installed, the Kepler Nvdia Graphics is a good choice Recommanded Graphics Dell Nvdia GeForce 640 1024 MB with DP/HDMI/DVI G41 series motherboard or inetl 775 CPU only support 1333 DDR3 4G double-sided Memory and maximum 8G Memory Motherboard from Gigabyte/AUSU/MSI match the macOS better ( Gigabyte the best ) # Ending Thank u guys who’ve read patiently, hope u hack successfully!\n# More info about hackintosh wiki: what is hackintosh Github: hackintosh model collection tonymacx86: guide and forum of hackintosh Opencore: brand new boot\n",
   "wordCount" : "448",
   "inLanguage": "en",
-  "image": "https://wushuo.me/img/cover-image-0.jpg","datePublished": "2020-08-23T19:03:45+08:00",
+  "image": "https://wushuo.me/img/profile-image.jpg","datePublished": "2020-08-23T19:03:45+08:00",
   "dateModified": "2020-08-23T19:03:45+08:00",
   "author":{
     "@type": "Person",

diff --git a/posts/long_life_evolution/index.html b/posts/long_life_evolution/index.html
@@ -22,9 +22,9 @@
 <link rel="canonical" href="https://wushuo.me/posts/long_life_evolution/">
 <link crossorigin="anonymous" href="/assets/css/stylesheet.fc220c15db4aef0318bbf30adc45d33d4d7c88deff3238b23eb255afdc472ca6.css" integrity="sha256-/CIMFdtK7wMYu/MK3EXTPU18iN7/MjiyPrJVr9xHLKY=" rel="preload stylesheet" as="style">
 <link rel="icon" href="https://wushuo.me/assets/favicon.ico">
-<link rel="icon" type="image/png" sizes="16x16" href="https://wushuo.me/favicon-16x16.png">
-<link rel="icon" type="image/png" sizes="32x32" href="https://wushuo.me/favicon-32x32.png">
-<link rel="apple-touch-icon" href="https://wushuo.me/apple-touch-icon.png">
+<link rel="icon" type="image/png" sizes="16x16" href="https://wushuo.me/assets/favicon-16x16.png">
+<link rel="icon" type="image/png" sizes="32x32" href="https://wushuo.me/assets/favicon-32x32.png">
+<link rel="apple-touch-icon" href="https://wushuo.me/assets/apple-touch-icon.png">
 <link rel="mask-icon" href="https://wushuo.me/safari-pinned-tab.svg">
 <meta name="theme-color" content="#2e2e33">
 <meta name="msapplication-TileColor" content="#2e2e33">
@@ -78,11 +78,11 @@
 于北京林业大学
 二〇二壹年陆月贰拾肆日 凌晨" />
 <meta property="og:type" content="article" />
-<meta property="og:url" content="https://wushuo.me/posts/long_life_evolution/" /><meta property="og:image" content="https://wushuo.me/img/cover-image-0.jpg"/><meta property="article:section" content="posts" />
+<meta property="og:url" content="https://wushuo.me/posts/long_life_evolution/" /><meta property="og:image" content="https://wushuo.me/img/profile-image.jpg"/><meta property="article:section" content="posts" />
 <meta property="article:published_time" content="2021-06-23T23:07:03+08:00" />
 <meta property="article:modified_time" content="2021-06-23T23:07:03+08:00" />
 <meta name="twitter:card" content="summary_large_image"/>
-<meta name="twitter:image" content="https://wushuo.me/img/cover-image-0.jpg"/>
+<meta name="twitter:image" content="https://wushuo.me/img/profile-image.jpg"/>
 
 <meta name="twitter:title" content="转换器"/>
 <meta name="twitter:description" content="怎样过完普通的一生 / converter
@@ -131,7 +131,7 @@
   "articleBody": "怎样过完普通的一生 / converter\n高中的时候听过学物竞拿奖的同学念的一篇小作文，叫“接受自己的平凡”，那个时候我还不知道其中话的含义；后来他没学物理了，去了浙大的城乡规划\n现在我在二本学校学着和物理擦边的电子信息，囿于数学的含义里，写着后半生打算怎么过\n我小时候就喜欢研究电子产品 ( 准确来说是喜欢拆解 )，大学读了电子信息发现并不太一样。家里希望继续读下去，我自己没什么想法，想读完书就回到小县城过完一生\n有许多人在不同年龄喜欢收集不同东西，比如兼容多种协议的充电器，各种存储设备，古董键盘，CRT显示器等等\n我从高中开始迷上了接口转换器，那个时候收集了 MicroUSB to Type-C，Type-A to 3.5mm Jack， OTG，DVI to DP 等等转换器；拥有各式各样的转换器一直是我的梦想，比如不会为了打印文件而折腾蓝牙，直接可以用 Type-A to Type-B 线缆高速传输数据，还能支持热插拔\n大二的寒假在家度过，我给家中添置了一台十年前旧电脑改装的软路由，我不仅用它连上了喇叭实现了林檎设备的 Airplay，也将它作为存储设备观看视频和电影，让家中父母购置的 4K 装饰品电视发挥了作用。我在寒假中的娱乐主要来自于折腾这些东西本身，而并非折腾完之后的享受。折腾这些东西学到的大学远没有大学一门课 ( 或者说是有一科考试逼迫我学习 ) 获得的知识多，但我不会感到厌倦，相反乐在其中。我不爱争斗，从小的家庭教育也不是让我超过别人，实现别人已经实现的东西也会让我感到充实 ( 事实上我并无任何创新 )。\n倘若几年后，我在正常作息之余能收集我喜爱的接口转换器 ( 真期待那时 USB 的形状是否能改变，抑或有更多接口样式出现 ) ，可以在闲暇时间看自己改完字幕混流后的电影，这样的人生对现在的我来说就是圆满的。至于娘子，孩子，房子和车子则都不在必要的考量范围内，票子只要能在亲人生病时能够承担医疗费用就足够了 ( 也即是“钱在救命时才是最重要的” )\n于北京林业大学 二〇二壹年陆月贰拾肆日 凌晨\n",
   "wordCount" : "49",
   "inLanguage": "en",
-  "image": "https://wushuo.me/img/cover-image-0.jpg","datePublished": "2021-06-23T23:07:03+08:00",
+  "image": "https://wushuo.me/img/profile-image.jpg","datePublished": "2021-06-23T23:07:03+08:00",
   "dateModified": "2021-06-23T23:07:03+08:00",
   "author":{
     "@type": "Person",

diff --git a/404.html b/404.html
@@ -12,9 +12,9 @@
 <link rel="canonical" href="https://wushuo.me/404.html">
 <link crossorigin="anonymous" href="/assets/css/stylesheet.fc220c15db4aef0318bbf30adc45d33d4d7c88deff3238b23eb255afdc472ca6.css" integrity="sha256-/CIMFdtK7wMYu/MK3EXTPU18iN7/MjiyPrJVr9xHLKY=" rel="preload stylesheet" as="style">
 <link rel="icon" href="https://wushuo.me/assets/favicon.ico">
-<link rel="icon" type="image/png" sizes="16x16" href="https://wushuo.me/favicon-16x16.png">
-<link rel="icon" type="image/png" sizes="32x32" href="https://wushuo.me/favicon-32x32.png">
-<link rel="apple-touch-icon" href="https://wushuo.me/apple-touch-icon.png">
+<link rel="icon" type="image/png" sizes="16x16" href="https://wushuo.me/assets/favicon-16x16.png">
+<link rel="icon" type="image/png" sizes="32x32" href="https://wushuo.me/assets/favicon-32x32.png">
+<link rel="apple-touch-icon" href="https://wushuo.me/assets/apple-touch-icon.png">
 <link rel="mask-icon" href="https://wushuo.me/safari-pinned-tab.svg">
 <meta name="theme-color" content="#2e2e33">
 <meta name="msapplication-TileColor" content="#2e2e33">
@@ -58,9 +58,9 @@
 </noscript><meta property="og:title" content="404 Page not found" />
 <meta property="og:description" content="浮光掠影" />
 <meta property="og:type" content="website" />
-<meta property="og:url" content="https://wushuo.me/404.html" /><meta property="og:image" content="https://wushuo.me/img/cover-image-0.jpg"/>
+<meta property="og:url" content="https://wushuo.me/404.html" /><meta property="og:image" content="https://wushuo.me/img/profile-image.jpg"/>
 <meta name="twitter:card" content="summary_large_image"/>
-<meta name="twitter:image" content="https://wushuo.me/img/cover-image-0.jpg"/>
+<meta name="twitter:image" content="https://wushuo.me/img/profile-image.jpg"/>
 
 <meta name="twitter:title" content="404 Page not found"/>
 <meta name="twitter:description" content="浮光掠影"/>

diff --git a/categories/index.html b/categories/index.html
@@ -12,9 +12,9 @@
 <link rel="canonical" href="https://wushuo.me/categories/">
 <link crossorigin="anonymous" href="/assets/css/stylesheet.fc220c15db4aef0318bbf30adc45d33d4d7c88deff3238b23eb255afdc472ca6.css" integrity="sha256-/CIMFdtK7wMYu/MK3EXTPU18iN7/MjiyPrJVr9xHLKY=" rel="preload stylesheet" as="style">
 <link rel="icon" href="https://wushuo.me/assets/favicon.ico">
-<link rel="icon" type="image/png" sizes="16x16" href="https://wushuo.me/favicon-16x16.png">
-<link rel="icon" type="image/png" sizes="32x32" href="https://wushuo.me/favicon-32x32.png">
-<link rel="apple-touch-icon" href="https://wushuo.me/apple-touch-icon.png">
+<link rel="icon" type="image/png" sizes="16x16" href="https://wushuo.me/assets/favicon-16x16.png">
+<link rel="icon" type="image/png" sizes="32x32" href="https://wushuo.me/assets/favicon-32x32.png">
+<link rel="apple-touch-icon" href="https://wushuo.me/assets/apple-touch-icon.png">
 <link rel="mask-icon" href="https://wushuo.me/safari-pinned-tab.svg">
 <meta name="theme-color" content="#2e2e33">
 <meta name="msapplication-TileColor" content="#2e2e33">
@@ -59,9 +59,9 @@
 </noscript><meta property="og:title" content="Categories" />
 <meta property="og:description" content="浮光掠影" />
 <meta property="og:type" content="website" />
-<meta property="og:url" content="https://wushuo.me/categories/" /><meta property="og:image" content="https://wushuo.me/img/cover-image-0.jpg"/>
+<meta property="og:url" content="https://wushuo.me/categories/" /><meta property="og:image" content="https://wushuo.me/img/profile-image.jpg"/>
 <meta name="twitter:card" content="summary_large_image"/>
-<meta name="twitter:image" content="https://wushuo.me/img/cover-image-0.jpg"/>
+<meta name="twitter:image" content="https://wushuo.me/img/profile-image.jpg"/>
 
 <meta name="twitter:title" content="Categories"/>
 <meta name="twitter:description" content="浮光掠影"/>

diff --git a/posts/index.html b/posts/index.html
@@ -12,9 +12,9 @@
 <link rel="canonical" href="https://wushuo.me/posts/">
 <link crossorigin="anonymous" href="/assets/css/stylesheet.fc220c15db4aef0318bbf30adc45d33d4d7c88deff3238b23eb255afdc472ca6.css" integrity="sha256-/CIMFdtK7wMYu/MK3EXTPU18iN7/MjiyPrJVr9xHLKY=" rel="preload stylesheet" as="style">
 <link rel="icon" href="https://wushuo.me/assets/favicon.ico">
-<link rel="icon" type="image/png" sizes="16x16" href="https://wushuo.me/favicon-16x16.png">
-<link rel="icon" type="image/png" sizes="32x32" href="https://wushuo.me/favicon-32x32.png">
-<link rel="apple-touch-icon" href="https://wushuo.me/apple-touch-icon.png">
+<link rel="icon" type="image/png" sizes="16x16" href="https://wushuo.me/assets/favicon-16x16.png">
+<link rel="icon" type="image/png" sizes="32x32" href="https://wushuo.me/assets/favicon-32x32.png">
+<link rel="apple-touch-icon" href="https://wushuo.me/assets/apple-touch-icon.png">
 <link rel="mask-icon" href="https://wushuo.me/safari-pinned-tab.svg">
 <meta name="theme-color" content="#2e2e33">
 <meta name="msapplication-TileColor" content="#2e2e33">
@@ -59,9 +59,9 @@
 </noscript><meta property="og:title" content="Posts" />
 <meta property="og:description" content="浮光掠影" />
 <meta property="og:type" content="website" />
-<meta property="og:url" content="https://wushuo.me/posts/" /><meta property="og:image" content="https://wushuo.me/img/cover-image-0.jpg"/>
+<meta property="og:url" content="https://wushuo.me/posts/" /><meta property="og:image" content="https://wushuo.me/img/profile-image.jpg"/>
 <meta name="twitter:card" content="summary_large_image"/>
-<meta name="twitter:image" content="https://wushuo.me/img/cover-image-0.jpg"/>
+<meta name="twitter:image" content="https://wushuo.me/img/profile-image.jpg"/>
 
 <meta name="twitter:title" content="Posts"/>
 <meta name="twitter:description" content="浮光掠影"/>

diff --git a/posts/page/2/index.html b/posts/page/2/index.html
@@ -12,9 +12,9 @@
 <link rel="canonical" href="https://wushuo.me/posts/">
 <link crossorigin="anonymous" href="/assets/css/stylesheet.fc220c15db4aef0318bbf30adc45d33d4d7c88deff3238b23eb255afdc472ca6.css" integrity="sha256-/CIMFdtK7wMYu/MK3EXTPU18iN7/MjiyPrJVr9xHLKY=" rel="preload stylesheet" as="style">
 <link rel="icon" href="https://wushuo.me/assets/favicon.ico">
-<link rel="icon" type="image/png" sizes="16x16" href="https://wushuo.me/favicon-16x16.png">
-<link rel="icon" type="image/png" sizes="32x32" href="https://wushuo.me/favicon-32x32.png">
-<link rel="apple-touch-icon" href="https://wushuo.me/apple-touch-icon.png">
+<link rel="icon" type="image/png" sizes="16x16" href="https://wushuo.me/assets/favicon-16x16.png">
+<link rel="icon" type="image/png" sizes="32x32" href="https://wushuo.me/assets/favicon-32x32.png">
+<link rel="apple-touch-icon" href="https://wushuo.me/assets/apple-touch-icon.png">
 <link rel="mask-icon" href="https://wushuo.me/safari-pinned-tab.svg">
 <meta name="theme-color" content="#2e2e33">
 <meta name="msapplication-TileColor" content="#2e2e33">
@@ -59,9 +59,9 @@
 </noscript><meta property="og:title" content="Posts" />
 <meta property="og:description" content="浮光掠影" />
 <meta property="og:type" content="website" />
-<meta property="og:url" content="https://wushuo.me/posts/" /><meta property="og:image" content="https://wushuo.me/img/cover-image-0.jpg"/>
+<meta property="og:url" content="https://wushuo.me/posts/" /><meta property="og:image" content="https://wushuo.me/img/profile-image.jpg"/>
 <meta name="twitter:card" content="summary_large_image"/>
-<meta name="twitter:image" content="https://wushuo.me/img/cover-image-0.jpg"/>
+<meta name="twitter:image" content="https://wushuo.me/img/profile-image.jpg"/>
 
 <meta name="twitter:title" content="Posts"/>
 <meta name="twitter:description" content="浮光掠影"/>
